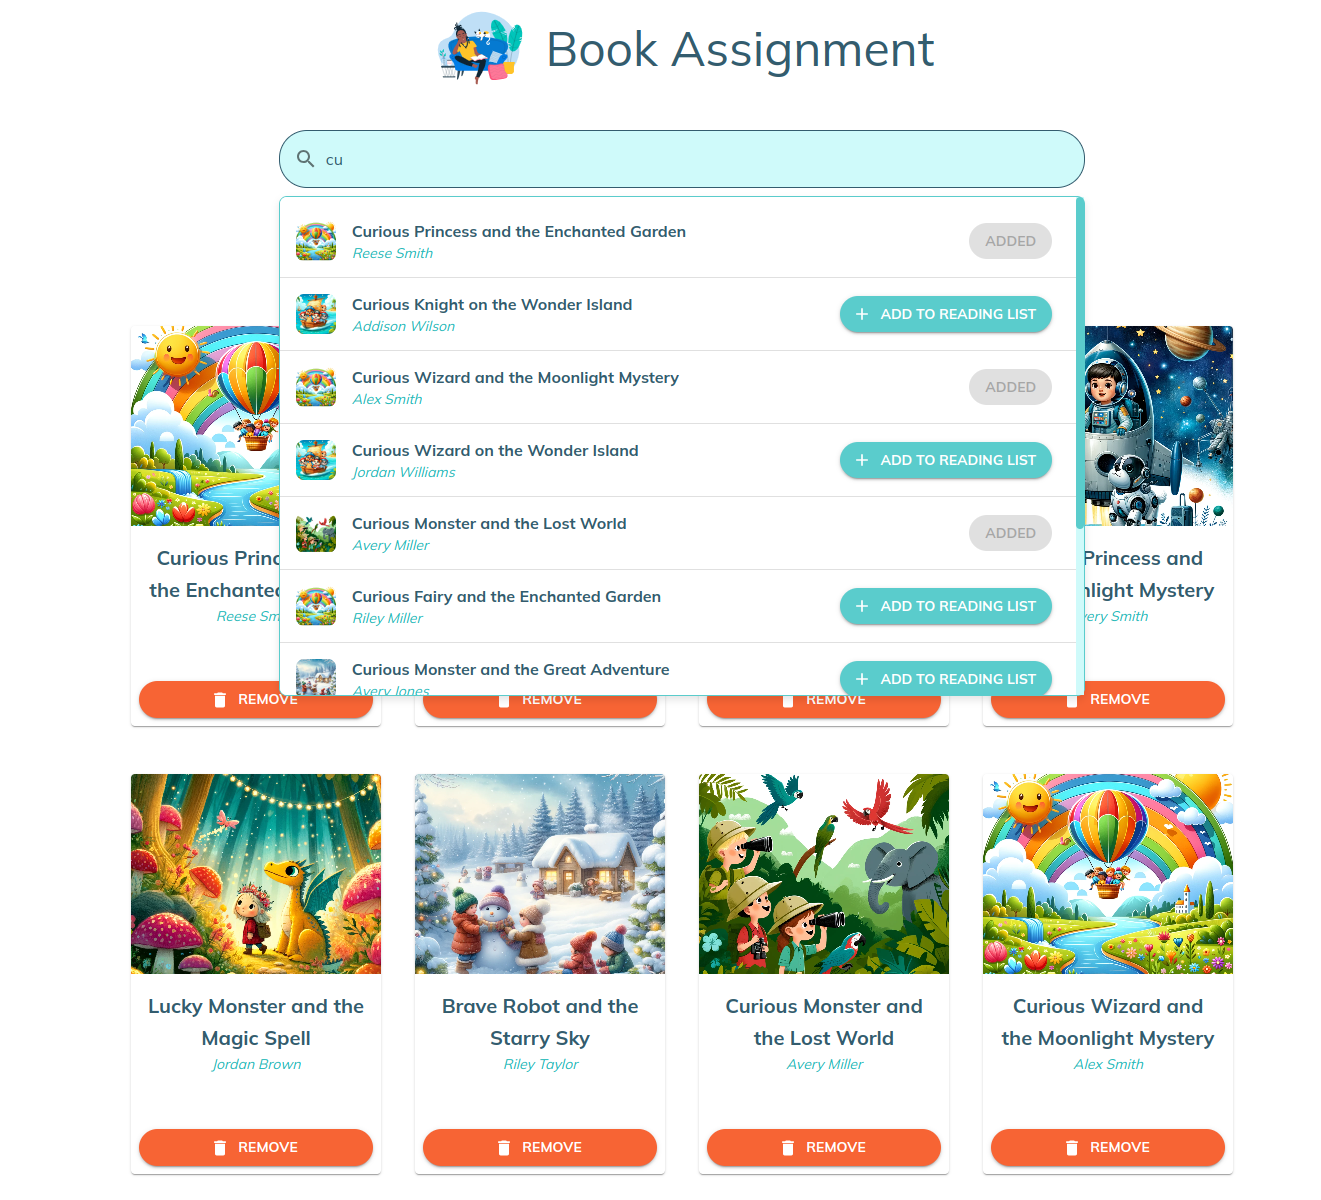
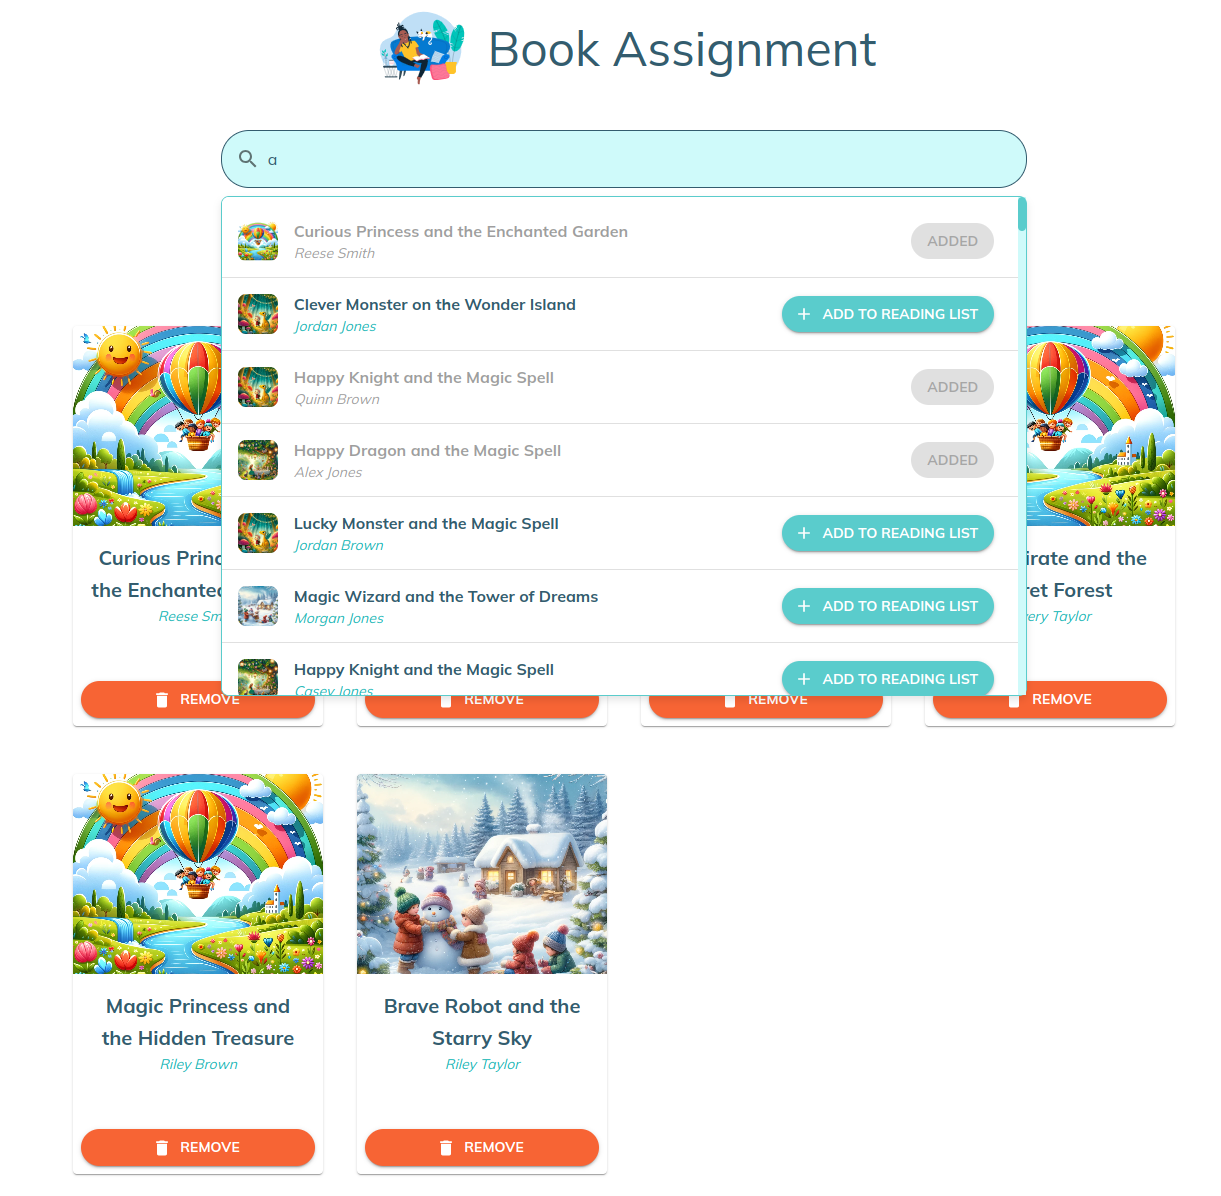
Refactor and update readme

diff --git a/frontend/src/components/BookListItem.tsx b/frontend/src/components/BookListItem.tsx
@@ -48,12 +48,16 @@ const BookListItem: React.FC<BookListItemProps> = ({ book, onAdd }) => {
           primary={book.title}
           primaryTypographyProps={{
             fontWeight: "bold",
-            color: theme.palette.text.primary,
+            color: isBookInReadingList
+              ? theme.palette.text.disabled
+              : theme.palette.text.primary,
           }}
           secondary={book.author}
           secondaryTypographyProps={{
             fontStyle: "italic",
-            color: theme.palette.text.secondary,
+            color: isBookInReadingList
+              ? theme.palette.text.disabled
+              : theme.palette.text.secondary,
           }}
         />
         <Box
@@ -71,7 +75,7 @@ const BookListItem: React.FC<BookListItemProps> = ({ book, onAdd }) => {
             disabled={isBookInReadingList}
             sx={{
               color: "white",
-              borderRadius: 28, 
+              borderRadius: 28,
               margin: 1,
               fontWeight: "bold",
             }}
